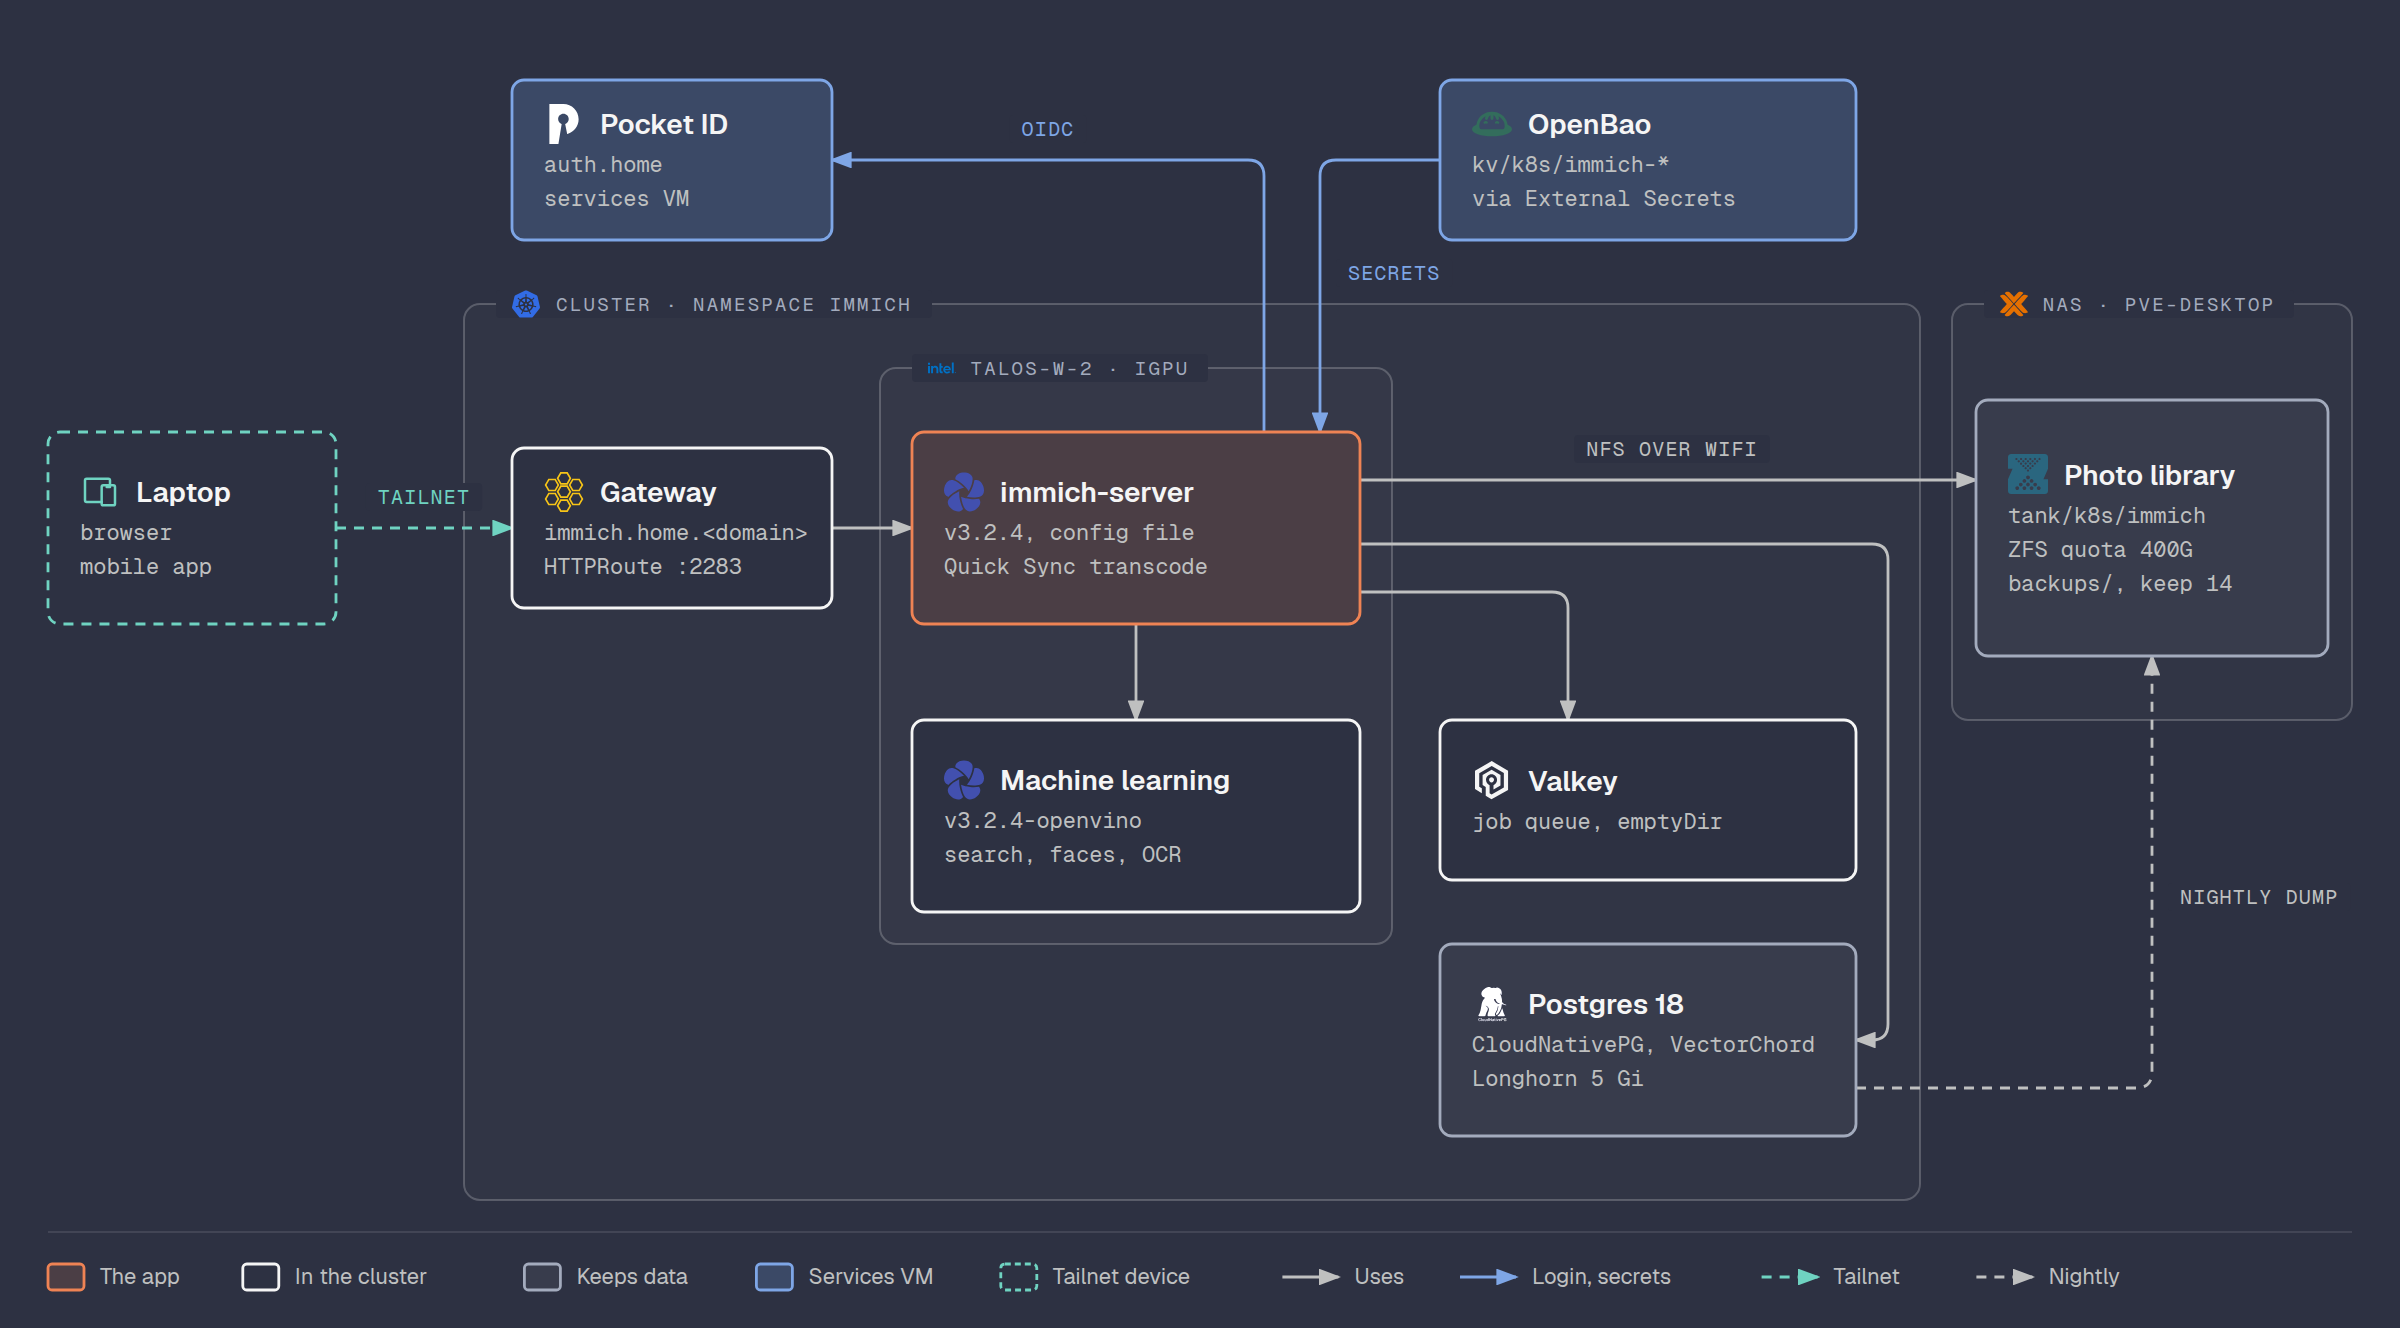
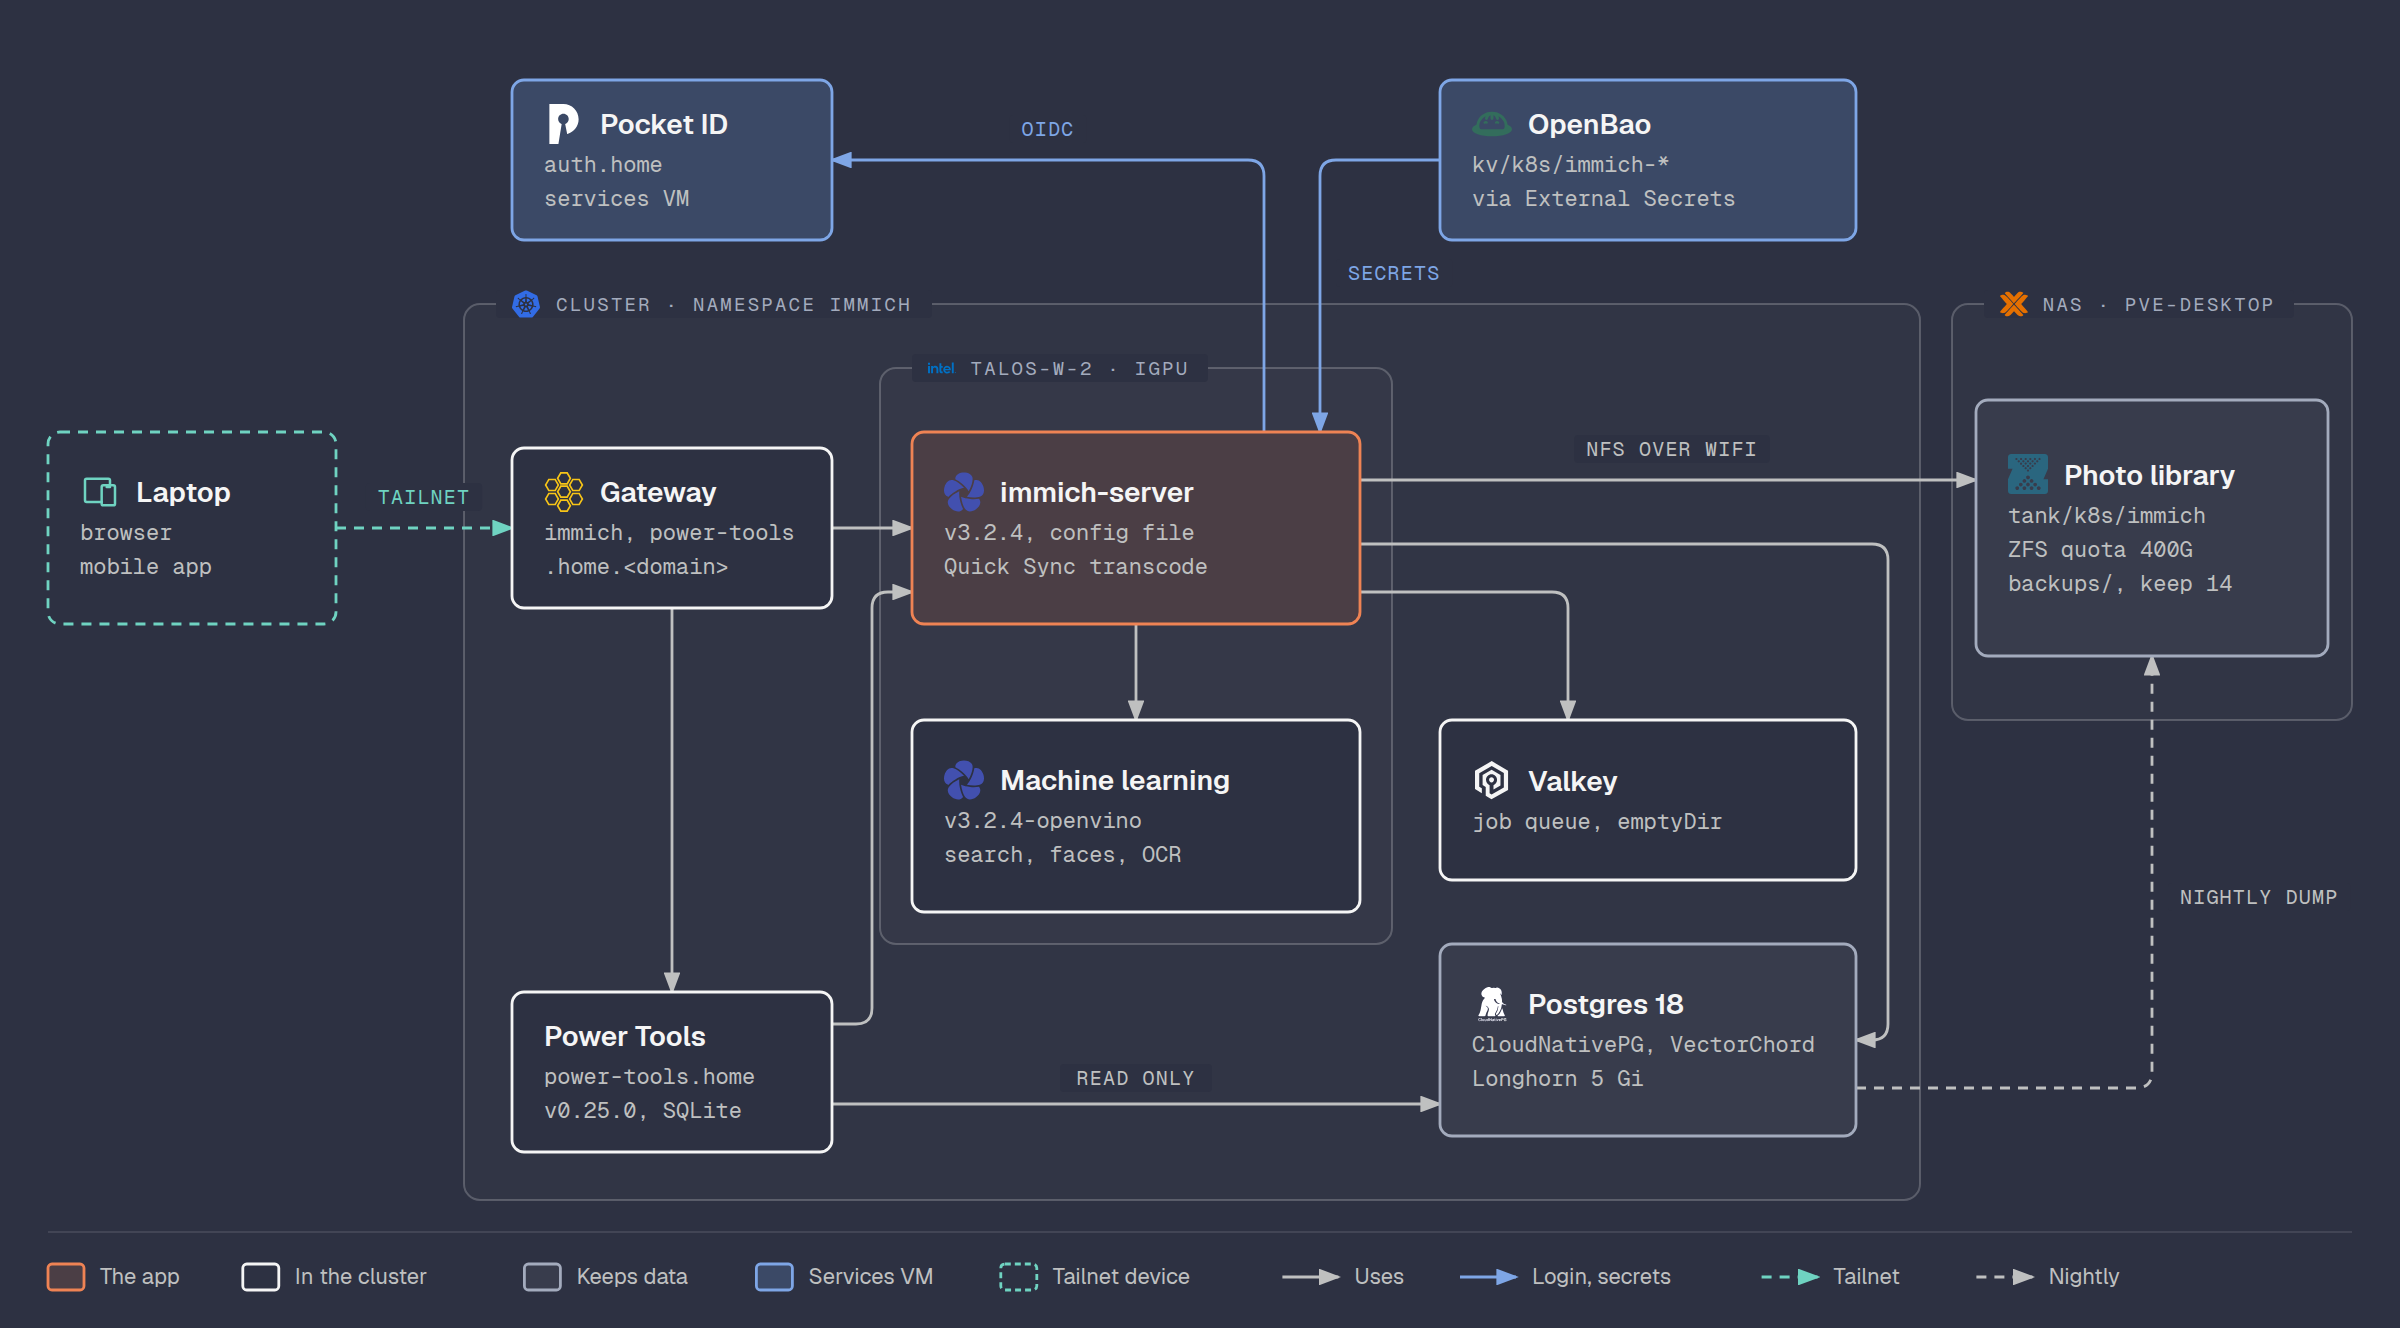
feat(immich): run power tools with a read-only database role (#45)

diff --git a/diagrams/immich.html b/diagrams/immich.html
@@ -17,7 +17,7 @@
   <div class="frame">
       <svg viewBox="0 0 1200 664" xmlns="http://www.w3.org/2000/svg" role="img" aria-labelledby="immich-title immich-desc">
       <title id="immich-title">Immich</title>
-      <desc id="immich-desc">The laptop reaches Immich over the tailnet through the Gateway, from the browser and the mobile app; the server and machine learning run on talos-w-2 with its Intel GPU, the server uses Valkey and Postgres on Longhorn, keeps photos on the NAS under a 400G ZFS quota where the database is also dumped nightly, logs users in through Pocket ID and gets its settings and passwords from OpenBao.</desc>
+      <desc id="immich-desc">The laptop reaches Immich over the tailnet through the Gateway, from the browser and the mobile app, and Power Tools reads the database as a read-only role; the server and machine learning run on talos-w-2 with its Intel GPU, the server uses Valkey and Postgres on Longhorn, keeps photos on the NAS under a 400G ZFS quota where the database is also dumped nightly, logs users in through Pocket ID and gets its settings and passwords from OpenBao.</desc>
       <defs><marker id="immich-a" markerWidth="8" markerHeight="6" refX="7" refY="3" orient="auto"><polygon points="0 0, 8 3, 0 6" fill="#bfc0c0"/></marker><marker id="immich-a-link" markerWidth="8" markerHeight="6" refX="7" refY="3" orient="auto"><polygon points="0 0, 8 3, 0 6" fill="#7ea6e6"/></marker><marker id="immich-a-tail" markerWidth="8" markerHeight="6" refX="7" refY="3" orient="auto"><polygon points="0 0, 8 3, 0 6" fill="#6fd3c1"/></marker><marker id="immich-a-accent" markerWidth="8" markerHeight="6" refX="7" refY="3" orient="auto"><polygon points="0 0, 8 3, 0 6" fill="#ef8354"/></marker></defs>
       <rect width="100%" height="100%" fill="#2d3142"/>
       <rect x="232" y="152" width="728" height="448" rx="8" fill="rgba(245,245,245,0.02)" stroke="rgba(245,245,245,0.22)" stroke-width="1"/>
@@ -41,6 +41,11 @@
       <path d="M 928,544 H 1068 Q 1076,544 1076,536 V 328" fill="none" stroke="#bfc0c0" stroke-width="1.4" stroke-dasharray="5,4" marker-end="url(#immich-a)"/>
       <path d="M 632,216 V 88 Q 632,80 624,80 H 416" fill="none" stroke="#7ea6e6" stroke-width="1.4" marker-end="url(#immich-a-link)"/>
       <path d="M 720,80 H 668 Q 660,80 660,88 V 216" fill="none" stroke="#7ea6e6" stroke-width="1.4" marker-end="url(#immich-a-link)"/>
+      <path d="M 336,304 V 496" fill="none" stroke="#bfc0c0" stroke-width="1.4" marker-end="url(#immich-a)"/>
+      <path d="M 416,512 H 428 Q 436,512 436,504 V 304 Q 436,296 444,296 H 456" fill="none" stroke="#bfc0c0" stroke-width="1.4" marker-end="url(#immich-a)"/>
+      <path d="M 416,552 H 720" fill="none" stroke="#bfc0c0" stroke-width="1.4" marker-end="url(#immich-a)"/>
+      <rect x="530" y="532" width="76" height="14" rx="2" fill="#2d3142"/>
+      <text x="568" y="542.5" fill="#bfc0c0" font-size="10" font-family="'Geist Mono', monospace" text-anchor="middle" letter-spacing="0.06em">READ ONLY</text>
       <rect x="182.9" y="241.5" width="58.2" height="14" rx="2" fill="#2d3142"/>
       <text x="212" y="252" fill="#6fd3c1" font-size="10" font-family="'Geist Mono', monospace" text-anchor="middle" letter-spacing="0.06em">TAILNET</text>
       <rect x="787.1" y="217.5" width="97.8" height="14" rx="2" fill="#2d3142"/>
@@ -73,8 +78,13 @@
       <rect x="256" y="224" width="160" height="80" rx="6" fill="#2d3142" stroke="#f5f5f5" stroke-width="1.4"/>
       <text x="300" y="251.0" fill="#f5f5f5" font-size="14" font-weight="600" font-family="'Geist', sans-serif">Gateway</text>
[1 lines of base64/hex data omitted]
-      <text x="272" y="270.0" fill="#bfc0c0" font-size="11" font-family="'Geist Mono', monospace">immich.home.&lt;domain&gt;</text>
-      <text x="272" y="287.0" fill="#bfc0c0" font-size="11" font-family="'Geist Mono', monospace">HTTPRoute :2283</text>
+      <text x="272" y="270.0" fill="#bfc0c0" font-size="11" font-family="'Geist Mono', monospace">immich, power-tools</text>
+      <text x="272" y="287.0" fill="#bfc0c0" font-size="11" font-family="'Geist Mono', monospace">.home.&lt;domain&gt;</text>
+      <rect x="256" y="496" width="160" height="80" rx="6" fill="#2d3142"/>
+      <rect x="256" y="496" width="160" height="80" rx="6" fill="#2d3142" stroke="#f5f5f5" stroke-width="1.4"/>
+      <text x="272" y="523.0" fill="#f5f5f5" font-size="14" font-weight="600" font-family="'Geist', sans-serif">Power Tools</text>
+      <text x="272" y="542.0" fill="#bfc0c0" font-size="11" font-family="'Geist Mono', monospace">power-tools.home</text>
+      <text x="272" y="559.0" fill="#bfc0c0" font-size="11" font-family="'Geist Mono', monospace">v0.25.0, SQLite</text>
       <rect x="456" y="216" width="224" height="96" rx="6" fill="#2d3142"/>
       <rect x="456" y="216" width="224" height="96" rx="6" fill="rgba(239,131,84,0.16)" stroke="#ef8354" stroke-width="1.4"/>
       <text x="500" y="251.0" fill="#f5f5f5" font-size="14" font-weight="600" font-family="'Geist', sans-serif">immich-server</text>

diff --git a/docs/immich.md b/docs/immich.md
@@ -4,7 +4,7 @@ The photo library, the first app on the cluster: Immich v3 with its
 database on Longhorn and the photos on the NAS, reached at
 `https://immich.home.<domain>` and logged in through Pocket ID.
 
-![Immich: the laptop reaches the server over the tailnet through the Gateway, the server and machine learning share the Intel GPU on talos-w-2, Postgres on Longhorn is dumped nightly to the photo library on the NAS under a 400G ZFS quota, with login through Pocket ID and secrets from OpenBao](../diagrams/immich.png)
+![Immich: the Gateway routes to the server and to Power Tools; the server uses machine learning on the GPU, Valkey, Postgres on Longhorn and the photo library on the NAS, Power Tools reads Postgres as a read-only role, with settings from OpenBao and login through Pocket ID](../diagrams/immich.png)
 
 ## Database
 
@@ -104,11 +104,32 @@ Kept as they are:
 | `map` | tiles from `tiles.immich.cloud` | The browser fetches map tiles from Immich's servers |
 | `trash` | 30 days | |
 
+## Power Tools
+
+[Immich Power Tools](https://github.com/immich-power-tools/immich-power-tools)
+adds bulk tools Immich lacks: dates and locations for many photos at once,
+photos missing either, and merging people. It runs next to Immich in
+[power-tools.yaml](../gitops/projects/immich/power-tools.yaml), at
+`https://power-tools.home.<domain>`.
+
+| Item | Value |
+|------|-------|
+| Image | v0.25.0, pinned by digest, as a non-root user |
+| Login | Through Immich, so through Pocket ID (`OAUTH_ENABLED`). No API key: each person acts with their own Immich permissions. The `immich` Pocket ID client allows its callback, `/api/auth/oauth/callback` |
+| Database | Reads Immich's Postgres directly, as the role `power_tools` in `pg_read_all_data`, made by CloudNativePG `managed.roles`. It can read every table and write none; its own state is a SQLite file |
+| Secrets | `kv/k8s/immich-power-tools`: the role's password and the session signing key, through two `ExternalSecret`s |
+| Storage | 1 Gi on Longhorn for the SQLite file |
+
+The project's guide asks for an API key with every permission. Without
+one, anyone who could open the page would act as that key; signing in
+through Immich avoids that.
+
 ## References
 
 - [Immich documentation](https://immich.app/docs/)
 - [Immich Helm chart](https://github.com/immich-app/immich-charts)
 - [Immich config file](https://immich.app/docs/install/config-file/)
+- [Immich Power Tools](https://github.com/immich-power-tools/immich-power-tools)
 - [CloudNativePG](https://cloudnative-pg.io/documentation/current/)
 
 [Back to the build log](../README.md#docs)

diff --git a/docs/secrets.md b/docs/secrets.md
@@ -121,7 +121,7 @@ bao kv get -mount=kv config
 | `kv/talos` | The nodes' Tailscale key, pre-signed for Tailnet Lock |
 | `kv/talos/cluster` | Talos machine secrets, `talosconfig` and admin `kubeconfig`, written by OpenTofu |
 | `kv/talos/machine-configs` | The full machine config of each node, with Talos' field documentation, written by OpenTofu |
-| `kv/k8s/*` | Secrets for the cluster, read by External Secrets: `cert-manager` (Cloudflare DNS token), `tailscale-operator` (its OAuth client), `immich-database` (the Postgres user Immich logs in with), `immich-oauth` (its Pocket ID client). The cluster can read only these and `kv/config` |
+| `kv/k8s/*` | Secrets for the cluster, read by External Secrets: `cert-manager` (Cloudflare DNS token), `tailscale-operator` (its OAuth client), `immich-database` (the Postgres user Immich logs in with), `immich-oauth` (its Pocket ID client), `immich-power-tools` (the read-only database role and the session key of Power Tools). The cluster can read only these and `kv/config` |
 | `kv/nas` | The Samba user and password, read by Ansible ([NAS](nas.md#shares)) |
 | `kv/immich` | The Immich admin login |
 | `kv/github/renovate` | Renovate's fine-grained GitHub token, copied to the repo secret `RENOVATE_TOKEN` ([CI](ci.md#renovate)) |
@@ -276,6 +276,7 @@ shared outside Bitwarden and is replaced first.
 | Samba password, user `nas` | OpenBao `kv/nas`, the host | Year | 2027-10 | `bao kv patch`, then `smbpasswd nas` on `pve-desktop` with the new value |
 | Immich database password | OpenBao `kv/k8s/immich-database` | Year | 2027-10 | `bao kv patch`; External Secrets syncs it within an hour, CloudNativePG changes the role, then restart `immich-server` |
 | Pocket ID static API key | OpenBao `kv/services/pocket-id` | Year | 2027-10 | `bao kv patch` a new random value, `tofu apply` replaces Pocket ID with it |
+| Immich Power Tools database password and session key | OpenBao `kv/k8s/immich-power-tools` | Year | 2027-10 | `bao kv patch`; External Secrets syncs it within an hour, CloudNativePG changes the role, then restart `immich-power-tools` |
 | Pocket ID client secrets (OpenBao, Proxmox, Immich) | OpenTofu state, OpenBao, Proxmox, `kv/k8s/immich-oauth` | Year | 2027-10 | Set `client_secret` on the client, raise the `_wo_version`s, apply; restart `immich-server` |
 | Immich admin password | OpenBao `kv/immich`, Bitwarden | Year | 2027-10 | Change it in Immich, `bao kv patch` |
 | Talos machine secrets | OpenTofu state, OpenBao `kv/talos/cluster` | Only if leaked | | A new cluster CA means a rebuild; certificates inside it rotate on their own |

diff --git a/README.md b/README.md
@@ -56,7 +56,7 @@ options chosen and why. The whole picture is in the
 | [Talos](docs/talos.md) | Image, VMs, machine config, bootstrap, Tailscale on the nodes | [Talos](diagrams/talos.png) |
 | [Platform](docs/platform.md) | Cilium and its Gateway, Longhorn, NFS, CloudNativePG, External Secrets, cert-manager, the Tailscale operator | [Platform](diagrams/platform.png) |
 | [GitOps](docs/gitops.md) | Flux and Kustomize, the `gitops/` layout, the order and timing of the steps | [GitOps](diagrams/gitops.png) |
-| [Immich](docs/immich.md) | Database, photo library, settings as code, Pocket ID | [Immich](diagrams/immich.png) |
+| [Immich](docs/immich.md) | Database, photo library, settings as code, Pocket ID, Power Tools | [Immich](diagrams/immich.png) |
 | [CI](docs/ci.md) | pre-commit, secret scanning in three layers, manifest validation, Scorecard, Renovate | [CI](diagrams/ci.png) |
 
 ## Hardware
